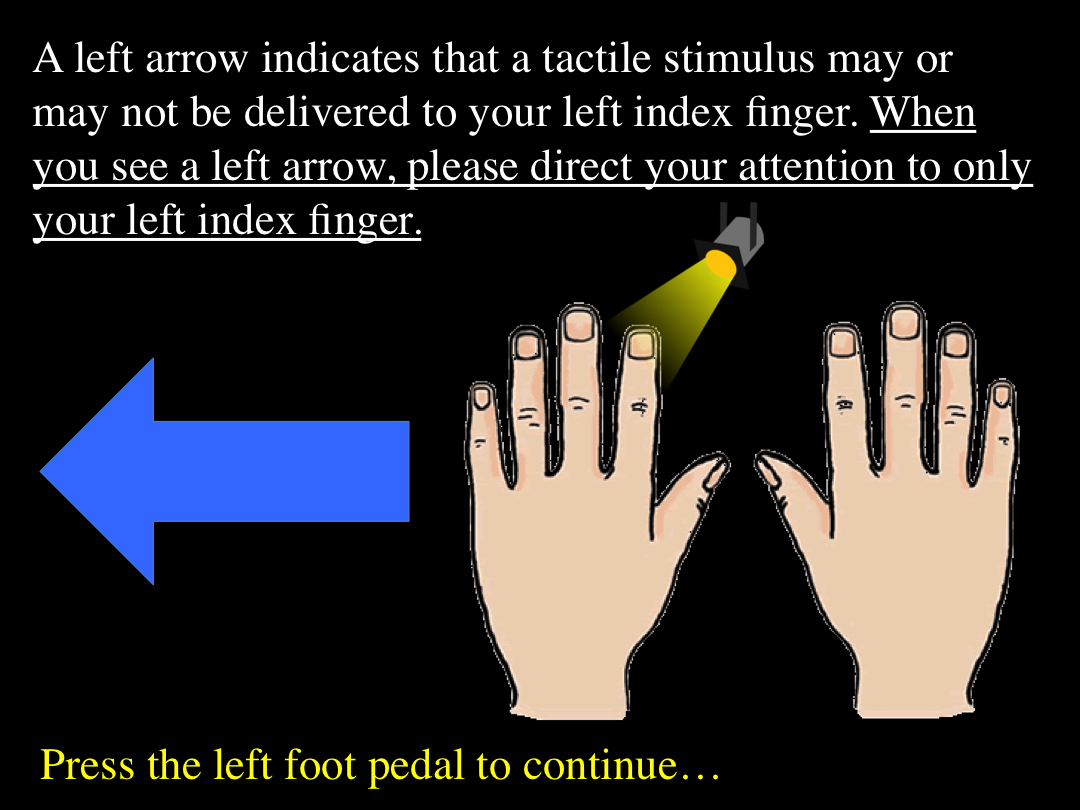
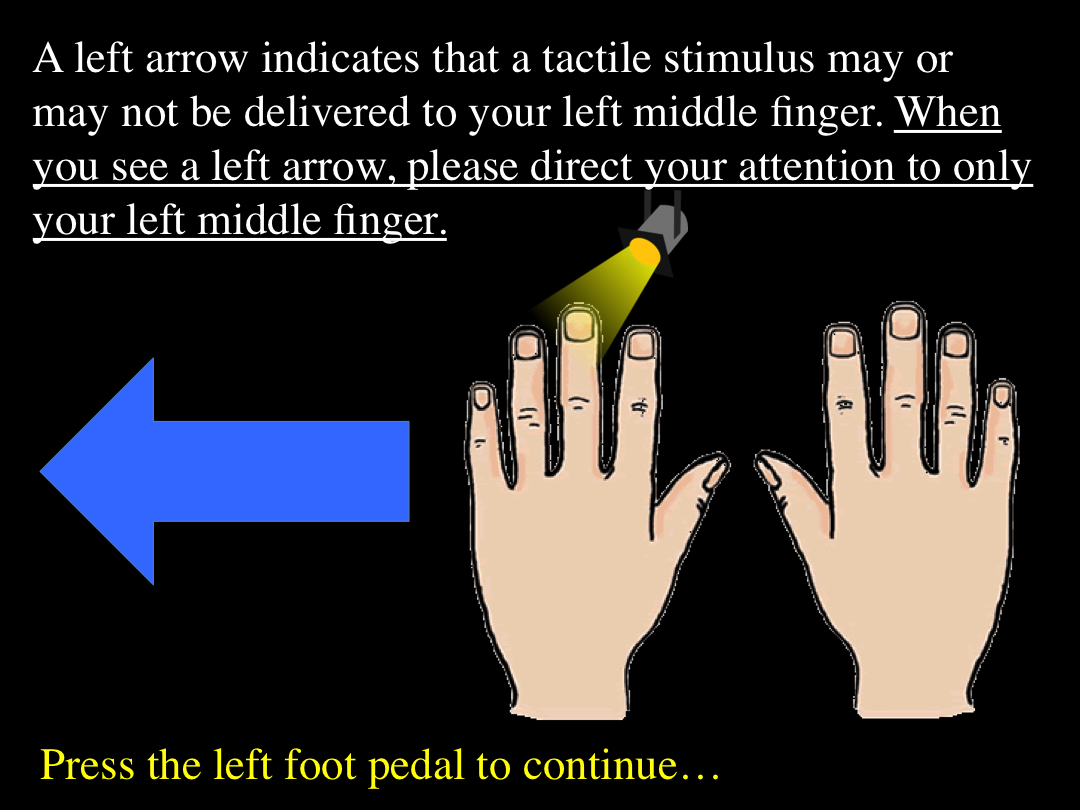
Fixed instructions and number of trials
Fixed instructions to say middle finger and changed # threshold trials
per hand to 105

Changed region(s): [[0.4889, 0.2469, 0.7333, 0.463], [0.5806, 0.1235, 0.9472, 0.1852], [0.1833, 0.2469, 0.4278, 0.3086]]

diff --git a/ChannelBeeperDouble/Channel_Dynamic_Thresholding_Double.m b/ChannelBeeperDouble/Channel_Dynamic_Thresholding_Double.m
@@ -44,7 +44,7 @@ WaitSecs(3);
 % out of these trials, .45 will go to each hand, and .1 will be specified as NOTHING (square)
 % when something is directed to a hand, 70% will be as expected (@ threshold), 20% will be null, and 10% will be double threshold
 % according to the math, there will be 800 total trials, leading to 252 alpha-modulated data points for each hand
-total_trials = 2*round(125/.7); % Cathy wanted 100 trials at threshold
+total_trials = 2*round(105/.7); % Cathy wanted 100 trials at threshold
 
 square_trials = round(total_trials*0);
 stim_trials = round(total_trials*1);
